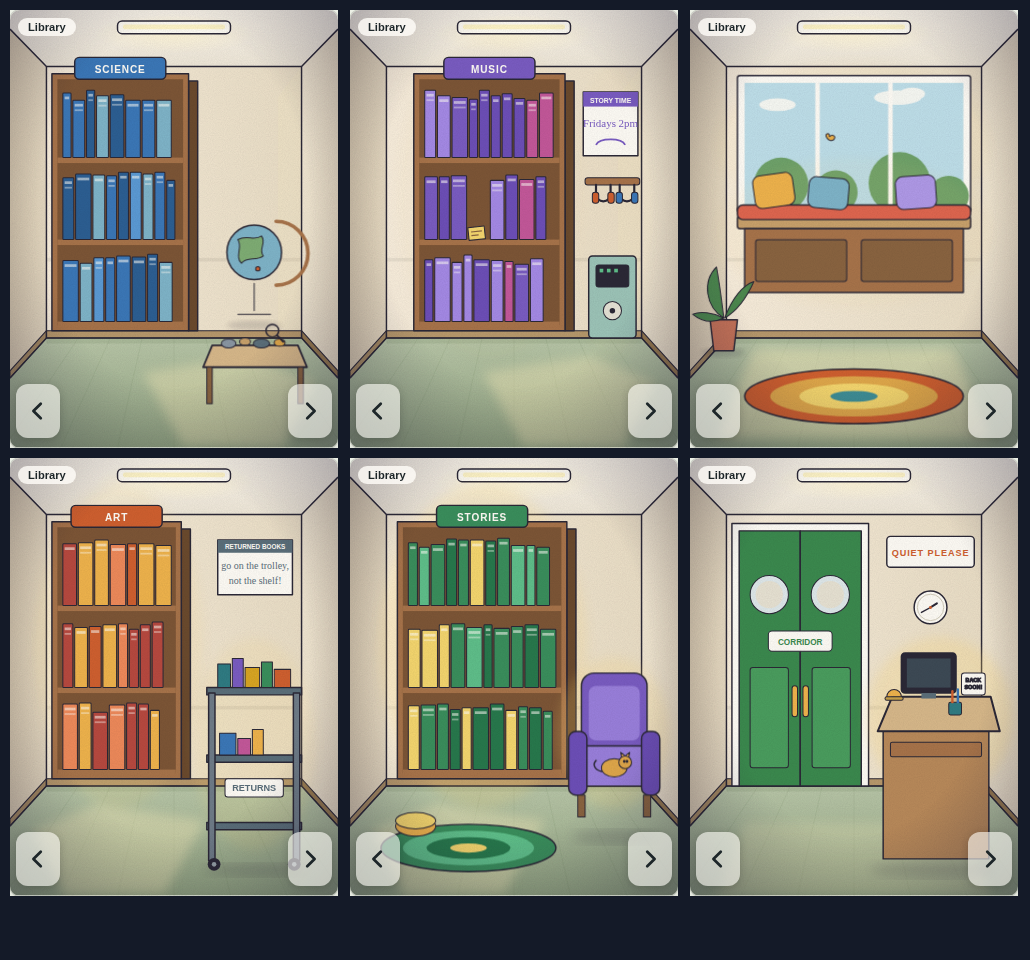
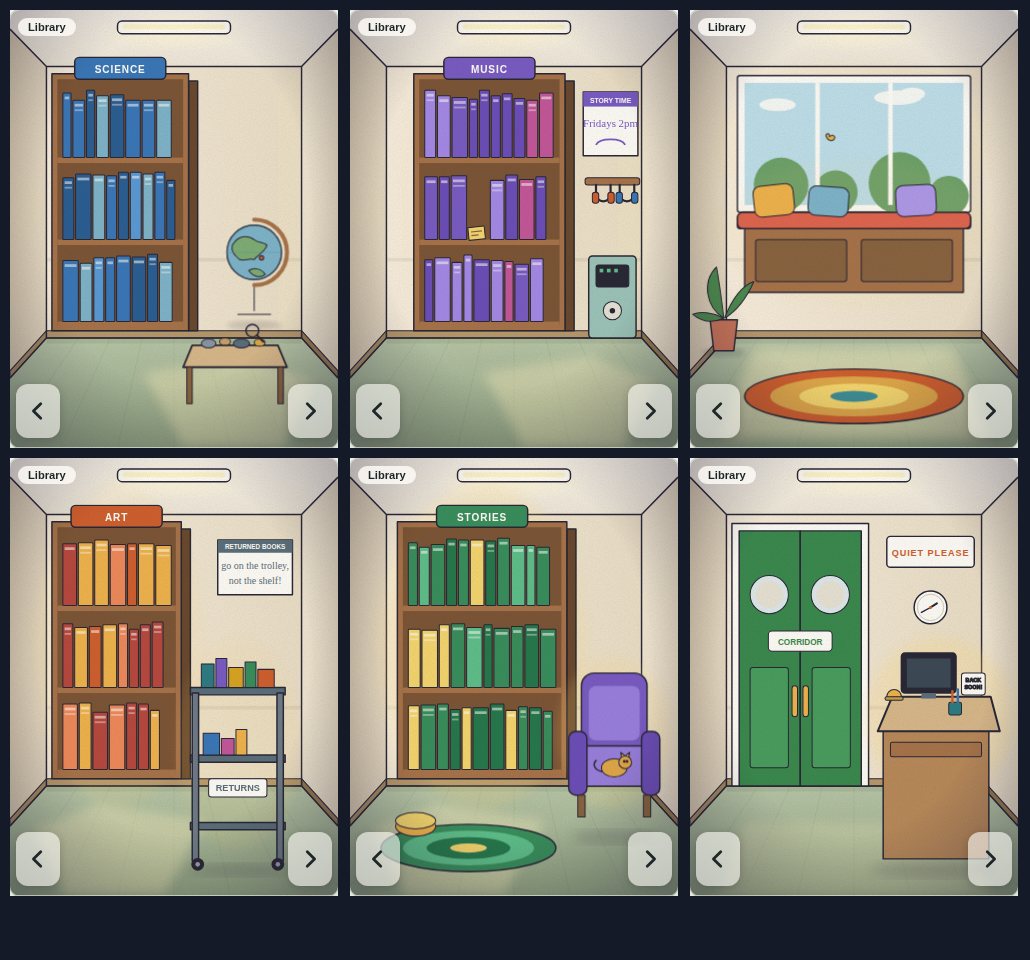
Library tidy-ups: globe stand, window seat, corners kept clear; notes updated
Claude-Session: https://claude.ai/code/session_01Tpq9p1pV6JyvDnCWhBvDet

diff --git a/next/index.html b/next/index.html
@@ -519,13 +519,15 @@ table.tt td.day{font-weight:700;text-align:left;background:#eaf1ee}
   <g class="hs" data-id="s_globe" role="button" tabindex="0" aria-label="Globe">
     <ellipse cx="268" cy="346" rx="30" ry="5" fill="#2b2836" opacity=".16" filter="url(#blur3)"/>
     <path d="M268 300v30M250 334h36" stroke="#a8744a" stroke-width="5" stroke-linecap="round" class="t"/>
-    <path d="M292 232a34 34 0 0 1 0 70" fill="none" stroke="#a8744a" stroke-width="4" stroke-linecap="round"/>
+    <path d="M268 230a36 36 0 0 1 0 72" fill="none" stroke="#a8744a" stroke-width="4.5" stroke-linecap="round"/>
     <circle cx="268" cy="266" r="30" fill="#7fb5c9" class="o"/>
-    <path d="M250 252c10-6 18 2 26-4 6 8-4 14 2 22-8 6-18 0-24 8-8-8 2-18-4-26Z" fill="#7fae74" class="t"/>
-    <circle cx="272" cy="284" r="2.4" fill="#d0602f" class="t"/>
+    <path d="M244 258c6-10 16-12 24-6 4 4 10 2 14 6-2 8-10 10-14 16-6-2-10 2-16 0-4-4-10-8-8-16Z" fill="#7fae74" class="t"/>
+    <path d="M262 286c6-4 14-2 18 4-4 4-12 4-18-4Z" fill="#7fae74" class="t"/>
+    <ellipse cx="268" cy="266" rx="30" ry="30" fill="none" stroke="#5e97ab" stroke-width="1" opacity=".5"/><path d="M238 266h60" stroke="#5e97ab" stroke-width="1" opacity=".5"/>
+    <circle cx="276" cy="272" r="2.4" fill="#d0602f" class="t"/>
     <rect class="hit" x="232" y="226" width="72" height="120" fill="transparent"/>
   </g>
-  <g class="hs" data-id="s_rocks" role="button" tabindex="0" aria-label="Rock collection">
+  <g class="hs" data-id="s_rocks" role="button" tabindex="0" aria-label="Rock collection" transform="translate(-22 0)">
     <polygon points="222,368 316,368 326,392 212,392" fill="#d8b98a" stroke="#2b2836" stroke-width="2" stroke-linejoin="round"/>
     <rect x="216" y="392" width="6" height="40" fill="#8a6440" class="t"/><rect x="316" y="392" width="6" height="40" fill="#8a6440" class="t"/>
     <g class="t"><ellipse cx="240" cy="366" rx="8" ry="5" fill="#8a97a3"/><ellipse cx="258" cy="364" rx="6" ry="4" fill="#c9a26b"/><ellipse cx="276" cy="366" rx="9" ry="5" fill="#5b6f7a"/><ellipse cx="296" cy="365" rx="6" ry="4" fill="#e0a84a"/><circle cx="288" cy="352" r="7" fill="none" stroke="#2b2836" stroke-width="1.6"/><line x1="293" y1="357" x2="300" y2="364" stroke="#2b2836" stroke-width="2.2"/></g>
@@ -565,8 +567,8 @@ table.tt td.day{font-weight:700;text-align:left;background:#eaf1ee}
   <g class="hs" data-id="s_beanbags" role="button" tabindex="0" aria-label="Window seat">
     <rect x="52" y="226" width="256" height="14" rx="3" fill="#c9a26b" class="o"/>
     <rect x="60" y="240" width="240" height="70" fill="#a8744a" class="o"/><rect x="72" y="252" width="100" height="46" rx="3" fill="#8a6440" class="t"/><rect x="188" y="252" width="100" height="46" rx="3" fill="#8a6440" class="t"/>
-    <rect x="52" y="214" width="256" height="16" rx="6" fill="#e0664f" class="o"/>
-    <g class="t"><rect x="70" y="180" width="44" height="36" rx="8" fill="#f0b44c" transform="rotate(-8 92 198)"/><rect x="130" y="184" width="44" height="34" rx="8" fill="#7fb5c9" transform="rotate(5 152 201)"/><rect x="226" y="182" width="44" height="36" rx="8" fill="#b09ae8" transform="rotate(-4 248 200)"/></g>
+    <rect x="52" y="222" width="256" height="18" rx="6" fill="#e0664f" class="o"/>
+    <g class="t"><rect x="70" y="192" width="44" height="34" rx="8" fill="#f0b44c" transform="rotate(-6 92 209)"/><rect x="130" y="194" width="44" height="32" rx="8" fill="#7fb5c9" transform="rotate(4 152 210)"/><rect x="226" y="192" width="44" height="34" rx="8" fill="#b09ae8" transform="rotate(-3 248 209)"/></g>
     <rect class="hit" x="50" y="176" width="260" height="136" fill="transparent"/>
   </g>
   <g><ellipse cx="180" cy="424" rx="120" ry="30" fill="#d0602f" class="o"/><ellipse cx="180" cy="424" rx="92" ry="22" fill="#e0a84a"/><ellipse cx="180" cy="424" rx="60" ry="14" fill="#f5d76e"/><ellipse cx="180" cy="424" rx="26" ry="6" fill="#3f8f96"/></g>
@@ -580,7 +582,7 @@ table.tt td.day{font-weight:700;text-align:left;background:#eaf1ee}
     <rect class="hit" x="42" y="50" width="156" height="312" fill="transparent"/>
   </g>
   <g><rect x="228" y="90" width="82" height="60" fill="#fffdf6" class="o"/><rect x="228" y="90" width="82" height="14" fill="#5b6f7a"/><text x="269" y="100" text-anchor="middle" font-size="7" font-weight="700" fill="#fffdf6" class="lbl">RETURNED BOOKS</text><text x="269" y="122" text-anchor="middle" font-size="11" fill="#5b6f7a" class="hand">go on the trolley,</text><text x="269" y="138" text-anchor="middle" font-size="11" fill="#5b6f7a" class="hand">not the shelf!</text></g>
-  <g class="hs" data-id="s_trolley" role="button" tabindex="0" aria-label="Returns trolley">
+  <g class="hs" data-id="s_trolley" role="button" tabindex="0" aria-label="Returns trolley" transform="translate(-18 0)">
     <ellipse cx="268" cy="452" rx="56" ry="7" fill="#2b2836" opacity=".16" filter="url(#blur6)"/>
     <g class="o" fill="#5b6f7a"><rect x="216" y="252" width="104" height="8"/><rect x="216" y="326" width="104" height="8"/><rect x="216" y="400" width="104" height="8"/></g>
     <rect x="218" y="258" width="7" height="184" fill="#6f7c88" class="o"/><rect x="311" y="258" width="7" height="184" fill="#6f7c88" class="o"/>

diff --git a/STORY.md b/STORY.md
@@ -103,7 +103,7 @@ Decided on 28 Sept 2026 (the owner left it to Claude):
 Built as a playable draft in `next/index.html`. Three rooms:
 - **Classroom 5H** (square, 4 views): whiteboard, supplies cupboard and Mr Hollis's desk; the window wall with the bean plants and a plane in the sky; door to the corridor, coat pegs and the lost-property box; the timetable wall with the class's paintings, a clock, a bookshelf, Nutmeg's cage on a cabinet, a plant, Mary's desk with the envelope, and her bag. Class rules and a world map hang on the side walls and zoom when tapped. She starts facing her desk.
 - **Corridor** (square, 4 views): the lockers (Mary's is the purple one) with certificates above and a bench; the library doors with a water fountain and the trophy cabinet; the notice board (summer fair, swimming gala, lost cat Biscuit, house points) with the bonus riddle card; the doors to 5H and 5K under bunting.
-- **Library** (long, 6 views): Science shelf and globe; Music shelf with a gap; window and beanbags (quiet wall); Art shelf and the returns trolley; Stories shelf; doors to the corridor and the librarian's desk ("Back soon!").
+- **Library** (long, 6 views): Science shelf, the globe and a rock collection; Music shelf (with the gap and sticky note) and the listening corner; the window wall with the window seat and a rug; Art shelf and the returns trolley under a "returned books go on the trolley" notice; Stories shelf, a reading rug and the storytime chair; doors to the corridor and the librarian's desk ("Back soon!") under a QUIET PLEASE sign.
 
 Mr Hollis is Mary's (invented) teacher. Everyone else is at the goodbye party in the playground.
 

diff --git a/CLAUDE.md b/CLAUDE.md
@@ -55,7 +55,7 @@ Interaction model: tap an object to look; tap an inventory item to select it, th
 
 ## Visual style
 
-The children's version follows "Visual style" in `STORY.md` (agreed with the owner on 28 Sept 2026): rooms as perspective boxes drawn by the engine, ink outlines, shading, paper grain, lived-in rooms, breathing glows on tappables, arrows in the bottom corners. In `next/index.html`, a new-style view is `<g class="view" data-box="classroom" data-light="left">` and the engine adds the box; add new rooms to `BOXES`. The classroom and corridor are done; the library and the flat still use the old flat art below and are next to redraw. The live room (the old game) uses the style below.
+The children's version follows "Visual style" in `STORY.md` (agreed with the owner on 28 Sept 2026): rooms as perspective boxes drawn by the engine, ink outlines, shading, paper grain, lived-in rooms, breathing glows on tappables, arrows in the bottom corners. In `next/index.html`, a new-style view is `<g class="view" data-box="classroom" data-light="left">` and the engine adds the box; add new rooms to `BOXES`. The school (classroom, corridor, library) is done; the flat (packing day) still uses the old flat art and is next to redraw. Bookcases come from `BOOKCASES` and `bookcase()`. The live room (the old game) uses the style below.
 
 - Muted, uncanny, flat illustration. Olive moth-pattern wallpaper (#4b5037), dark wood (#4a352a, #3a2f28), brass (#a8844a), dusty rose rug (#5e3434), bone (#d9ccb0), candle glow (#f2c16b).
 - Typeface: IM Fell English (Google Fonts) with Georgia fallback. Sentence case, short, dry, unsettling copy.
